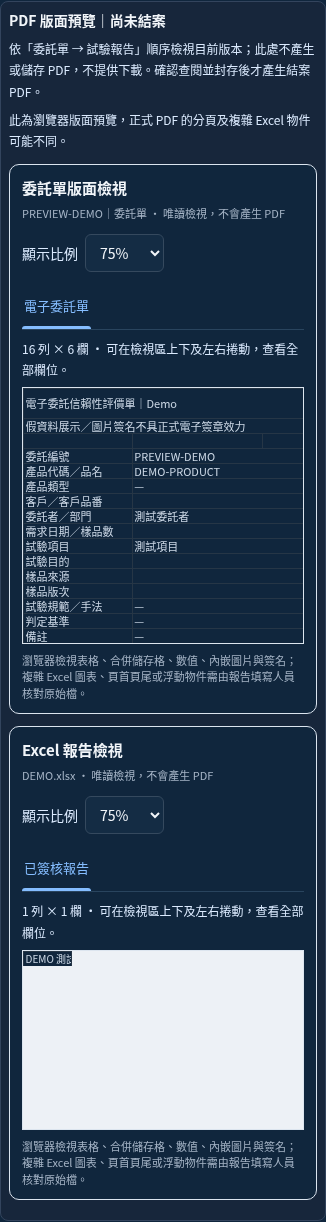
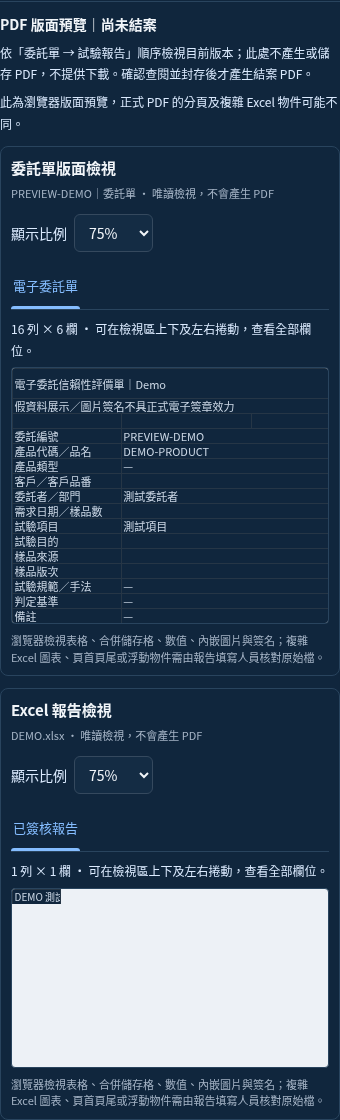
Polish supervisor return actions and document preview borders

diff --git a/src/RequestApp.jsx b/src/RequestApp.jsx
@@ -354,7 +354,7 @@ export default function RequestApp() {
   {page==='borrow'&&signedAccount.role==='委託者'&&<button type="button" className="rq-btn rq-btn-primary" onClick={openBorrow}>＋申請借用</button>}
   {borrowOpen&&<RequestFormDialog label="申請借用" dark={dark} onClose={()=>setBorrowOpen(false)}><header className="rq-form-header"><div><p className="rq-eyebrow">EQUIPMENT & MATERIAL BORROWING REQUEST</p><div className="help-title-row"><h2><LmsSidebarIcon name="borrow"/>申請借用</h2><HelpTip>填寫設備或物料借用需求與預計歸還日期，送出後會建立借用申請紀錄。</HelpTip></div></div><button type="button" className="rq-close" aria-label="關閉借用申請" onClick={()=>setBorrowOpen(false)}>×</button></header><div className="rq-form-body rq-form-body-reference"><section className="rq-entry-card"><div className="rq-entry-card-title"><span className="rq-entry-number">1</span><div><b>申請人資料</b><small>Applicant Information</small></div></div><div className="rq-entry-grid"><label>申請人姓名 <em>*</em><input className="rq-input" value={borrowForm.requester} onChange={e=>setBorrowForm({...borrowForm,requester:e.target.value})} placeholder="請輸入申請人姓名"/></label><label>申請部門 <em>*</em><input className="rq-input" value={borrowForm.department} onChange={e=>setBorrowForm({...borrowForm,department:e.target.value})} placeholder="例如：RD、PM、DQA"/></label></div></section><section className="rq-entry-card"><div className="rq-entry-card-title"><span className="rq-entry-number">2</span><div><b>借用項目與用途</b><small>Borrowed Item & Purpose</small></div></div><div className="rq-entry-grid"><BorrowResourceFields form={borrowForm} onChange={value=>{setBorrowForm(value);setBorrowError('');}} snapshot={borrowSnapshot}/><label className="rq-entry-grid-one">借用用途 <em>*</em><textarea className="rq-input rq-textarea" value={borrowForm.purpose} onChange={e=>setBorrowForm({...borrowForm,purpose:e.target.value})} placeholder="請說明借用原因、用途或對應試驗案件"/></label></div></section><section className="rq-entry-card"><div className="rq-entry-card-title"><span className="rq-entry-number">3</span><div><b>借用期間與備註</b><small>Borrowing Period & Notes</small></div></div><div className="rq-entry-grid"><label>預計借用日期 <em>*</em><input className="rq-input" type="date" value={borrowForm.borrowDate} onChange={e=>setBorrowForm({...borrowForm,borrowDate:e.target.value})}/></label><label>預計歸還日期 <em>*</em><input className="rq-input" type="date" min={borrowForm.borrowDate || undefined} value={borrowForm.returnDate} onChange={e=>setBorrowForm({...borrowForm,returnDate:e.target.value})}/></label><label className="rq-entry-grid-one">備註<textarea className="rq-input rq-textarea" value={borrowForm.notes} onChange={e=>setBorrowForm({...borrowForm,notes:e.target.value})} placeholder="配件、治具、設備狀況或其他注意事項（選填）"/></label></div></section><div className="rq-process-note"><b>申請流程</b><p>填寫借用申請 → LMS 待核准 → 一階主管核准／退回。</p></div>{borrowError&&<p role="alert" className="rq-field-error">{borrowError}</p>}</div><footer className="rq-form-footer"><button type="button" className="rq-btn rq-btn-light" onClick={()=>setBorrowForm({ requester: '', department: '', resourceType:'equipment',materialId:'',material:'',equipment: '', equipmentId:'', purpose: '', borrowDate: '', returnDate: '', quantity: '1', notes: '' })}>清除表單</button><button type="button" className="rq-btn rq-btn-primary" onClick={()=>{ if(!borrowForm.requester.trim()||!borrowForm.department.trim()||!(borrowForm.resourceType==='material'?borrowForm.materialId:borrowForm.equipment)||!borrowForm.purpose.trim()||!borrowForm.borrowDate||!borrowForm.returnDate||Number(borrowForm.quantity)<1){setBorrowError('請完成所有必填欄位，並確認借用與歸還日期。');notify('請完成所有必填欄位，並確認借用與歸還日期。');return;} if(borrowForm.returnDate<borrowForm.borrowDate){setBorrowError('歸還日期不可早於借用日期。');notify('歸還日期不可早於借用日期。');return;} let id;try{const created=submitBorrowRequest(borrowForm,signedAccount?.id);id=created.id;refreshLabSnapshot();}catch(error){setBorrowError(error.message);notify(error.message);return;} setBorrowError('');setBorrowForm({ requester: '', department: '', resourceType:'equipment',materialId:'',material:'',equipment: '', equipmentId:'', purpose: '', borrowDate: '', returnDate: '', quantity: '1', notes: '' }); setBorrowOpen(false);setPage('requests');setMyTab('borrows');setSearch('');notify(`借用申請 ${id} 已建立`); }}>送出借用申請 →</button></footer></RequestFormDialog>}
   {page==='detail'&&!selected&&<div role="alert" className="rq-panel rq-empty">案件不存在或你沒有存取權限。</div>}
-  {page === 'detail' && selected && <section className="rq-panel"><div className="rq-panel-head"><div><div className="help-title-row"><h2>{selected.id}　<span className={`rq-status ${requestStatusClass(selected.status)}`}>{selected.status === '待主管簽核' ? '待簽核' : selected.status === '已核准' ? '待審查' : selected.status}</span></h2><HelpTip>委託內容、試驗需求及簽核紀錄</HelpTip></div></div><button className="rq-btn rq-btn-light" onClick={()=>setPage(canOpenReview?'review':'requests')}>← 返回清單</button></div>{selected.status==='已完成'&&<p className="rq-stage-note">試驗已完成；報告仍待處理，不代表已審核、已查閱或已結案。</p>}<ReportCasePanel request={selected} account={signedAccount}/>{selected.execution&&<section className="rq-detail-section"><h3>試驗執行資訊</h3><div className="rq-detail-grid">{[['設備',selected.execution.equipment],['執行人',selected.execution.operator],['樣品編號',selected.execution.sampleCode],['開始時間',displayTaipei(selected.execution.startedAt)],['完成時間',displayTaipei(selected.execution.completedAt)]].map(([label,value])=><div key={label}><label>{label}</label><p>{value||'—'}</p></div>)}</div></section>}<div className="rq-detail-grid">{[['建立時間',displayTaipei(selected.createdAt)],['最後更新（台灣時間）',displayTaipei(selected.updatedAt)],['產品代碼',selected.productCode||selected.product],['產品類型',selected.productType],['客戶名稱',selected.customer||selected.project],['客戶品番',selected.customerPartNo],['需求日期',displayTaipei(selected.dueDate,{dateOnly:true})],['測試數量',selected.quantity],['委託者',selected.requester],['委託部門',selected.department],['試驗目的',(selected.purpose||[]).join('、')+(selected.purposeOther?`：${selected.purposeOther}`:'')],['樣品來源',(selected.sampleSource||[]).join('、')+(selected.sampleSourceOther?`：${selected.sampleSourceOther}`:'')],['製品版次',selected.productVersion],['PCBA版次',selected.pcbaVersion],['軟體版次',selected.softwareVersion],['製造日期',displayTaipei(selected.manufactureDate,{dateOnly:true})],['試驗項目',(selected.testItems||[]).join('、')],['試驗規範／試驗手法',selected.specification],['判定方式',selected.judgementRequired],['判定說明',selected.judgementCriteria],['其他說明',selected.sampleDescription],['備註',selected.notes]].map(([k,v])=><div key={k}><label>{k}</label><p>{v||'—'}</p></div>)}</div>{canOpenReview && selected.status==='待主管簽核'&&canApproveRequestManager(signedAccount,selected) && <div className="rq-approval"><h3>主管簽核（二階流程：第一階段）</h3><p className="rq-muted">核准時需簽名；退件只需填寫原因，可不簽名。</p><ApprovalSignature accountId={signedAccount?.id} key={`${selected.id}-${approvalInputVersion}`} mode={approvalMode} onModeChange={setApprovalMode} value={approvalSignature} onChange={setApprovalSignature} onError={notify} /><label className="rq-label">簽核意見（退件時請填寫原因）</label><textarea className="rq-input rq-textarea" value={approvalNote} onChange={e=>setApprovalNote(e.target.value)} placeholder="請輸入核准說明或退件補正事項…"/><div className="rq-actions"><button className="rq-btn rq-btn-danger" onClick={()=>review(selected.id,'退件')}>退回補正</button><button className="rq-btn rq-btn-primary" onClick={()=>review(selected.id,'已核准')}>✓ 核准委託單</button></div></div>}{signedAccount.role==='委託者' && ['退件','補件中'].includes(selected.status) && <div className="rq-review-callout"><div><b>主管意見</b><p>{selected.approvalNote || '請補充委託資訊。'}</p></div><button className="rq-btn rq-btn-primary" onClick={()=>beginEdit(selected)}>編輯並重新送出</button></div>}<RequestSignatures request={requests.find(r => r.id === selected.id) || selected} /><LmsReviewSignatures request={requests.find(r => r.id === selected.id) || selected} /><SignatureHistory request={requests.find(r=>r.id===selected.id)||selected}/><RequestProgress status={(requests.find(r => r.id === selected.id) || selected).status} /></section>}
+  {page === 'detail' && selected && <section className="rq-panel rq-case-detail"><div className="rq-panel-head"><div><div className="help-title-row"><h2>{selected.id}　<span className={`rq-status ${requestStatusClass(selected.status)}`}>{selected.status === '待主管簽核' ? '待簽核' : selected.status === '已核准' ? '待審查' : selected.status}</span></h2><HelpTip>委託內容、試驗需求及簽核紀錄</HelpTip></div></div><button className="rq-btn rq-btn-light" onClick={()=>setPage(canOpenReview?'review':'requests')}>← 返回清單</button></div>{selected.status==='已完成'&&<p className="rq-stage-note">試驗已完成；報告仍待處理，不代表已審核、已查閱或已結案。</p>}<ReportCasePanel request={selected} account={signedAccount}/>{selected.execution&&<section className="rq-detail-section"><h3>試驗執行資訊</h3><div className="rq-detail-grid">{[['設備',selected.execution.equipment],['執行人',selected.execution.operator],['樣品編號',selected.execution.sampleCode],['開始時間',displayTaipei(selected.execution.startedAt)],['完成時間',displayTaipei(selected.execution.completedAt)]].map(([label,value])=><div key={label}><label>{label}</label><p>{value||'—'}</p></div>)}</div></section>}<div className="rq-detail-grid">{[['建立時間',displayTaipei(selected.createdAt)],['最後更新（台灣時間）',displayTaipei(selected.updatedAt)],['產品代碼',selected.productCode||selected.product],['產品類型',selected.productType],['客戶名稱',selected.customer||selected.project],['客戶品番',selected.customerPartNo],['需求日期',displayTaipei(selected.dueDate,{dateOnly:true})],['測試數量',selected.quantity],['委託者',selected.requester],['委託部門',selected.department],['試驗目的',(selected.purpose||[]).join('、')+(selected.purposeOther?`：${selected.purposeOther}`:'')],['樣品來源',(selected.sampleSource||[]).join('、')+(selected.sampleSourceOther?`：${selected.sampleSourceOther}`:'')],['製品版次',selected.productVersion],['PCBA版次',selected.pcbaVersion],['軟體版次',selected.softwareVersion],['製造日期',displayTaipei(selected.manufactureDate,{dateOnly:true})],['試驗項目',(selected.testItems||[]).join('、')],['試驗規範／試驗手法',selected.specification],['判定方式',selected.judgementRequired],['判定說明',selected.judgementCriteria],['其他說明',selected.sampleDescription],['備註',selected.notes]].map(([k,v])=><div key={k}><label>{k}</label><p>{v||'—'}</p></div>)}</div>{canOpenReview && selected.status==='待主管簽核'&&canApproveRequestManager(signedAccount,selected) && <div className="rq-approval"><h3>主管簽核（二階流程：第一階段）</h3><p className="rq-muted">核准時需簽名；退件只需填寫原因，可不簽名。</p><ApprovalSignature accountId={signedAccount?.id} key={`${selected.id}-${approvalInputVersion}`} mode={approvalMode} onModeChange={setApprovalMode} value={approvalSignature} onChange={setApprovalSignature} onError={notify} /><label className="rq-label">簽核意見（退件時請填寫原因）</label><textarea className="rq-input rq-textarea" value={approvalNote} onChange={e=>setApprovalNote(e.target.value)} placeholder="請輸入核准說明或退件補正事項…"/><div className="rq-actions"><button className="rq-btn rq-btn-danger" onClick={()=>review(selected.id,'退件')}>退回補正</button><button className="rq-btn rq-btn-primary" onClick={()=>review(selected.id,'已核准')}>✓ 核准委託單</button></div></div>}{signedAccount.role==='委託者' && ['退件','補件中'].includes(selected.status) && <div className="rq-review-callout"><div><b>主管意見</b><p>{selected.approvalNote || '請補充委託資訊。'}</p></div><button className="rq-btn rq-btn-primary" onClick={()=>beginEdit(selected)}>編輯並重新送出</button></div>}<RequestSignatures request={requests.find(r => r.id === selected.id) || selected} /><LmsReviewSignatures request={requests.find(r => r.id === selected.id) || selected} /><SignatureHistory request={requests.find(r=>r.id===selected.id)||selected}/><RequestProgress status={(requests.find(r => r.id === selected.id) || selected).status} /></section>}
   {formOpen && page==='new' && signedAccount.role==='委託者' && <RequestEditorPage auxiliaryActions={<div className="rq-editor-aux-actions"><button type="button" className="rq-btn rq-btn-small" onClick={fillSampleRequest}>Demo填入</button><button type="button" className="rq-close" onClick={()=>go('/request/requests')} aria-label="關閉">×</button></div>} onSaveDraft={()=>submitRequest(true)} onReset={resetEditor} form={form} signature={requestSignature} source={requests.find(row=>row.id===editingDraftId)} dirty={dirty} errors={formErrors} onClose={()=>go('/request/requests')}><header className="rq-form-header"><div><p className="rq-eyebrow">ELECTRONIC TEST REQUEST</p><div className="help-title-row"><h2><LmsSidebarIcon name="new"/>{editingDraftId ? '編輯委託單草稿' : '新增試驗委託單'}</h2><HelpTip>可先儲存部分資訊，之後再從「我的委託/借用」繼續編輯並送出簽核。</HelpTip></div></div></header><div className="rq-form-body rq-form-body-reference"><section className="rq-entry-card"><div className="rq-entry-card-title"><span className="rq-entry-number">1</span><div><b>委託基本資料</b><small>Request Information</small></div></div><div className="rq-entry-grid">
 <label>產品代碼（送簽必填）<input className="rq-input" data-field="productCode" aria-invalid={Boolean(formErrors.productCode)} value={form.productCode} onChange={e=>setForm({...form,productCode:e.target.value,product:form.product||e.target.value})} placeholder="例如：VCU-2026-A01"/></label>
 <label>產品類型<input className="rq-input" value={form.productType} onChange={e=>setForm({...form,productType:e.target.value})} placeholder="例如：車用電子控制器"/></label>

diff --git a/src/ReportUi.jsx b/src/ReportUi.jsx
@@ -20,7 +20,7 @@ export function ReportCasePanel({request,account}){
  async function downloadPdf(){setError('');try{if(!readable)throw Error('此帳號目前無權下載報告。');const file=await readArchivedPdf({actorId:actor.id,requestId:request.id,system:accessSystem(actor,'request')?'request':accessSystem(actor,'lms')?'lms':'lab'});download(file.bytes,file.name,'application/pdf');}catch(err){setError(err.message);}}
  async function confirm(){setBusy(true);setError('');try{await confirmReportViewed({requestId:request.id,actorId:actor.id,expectedRevision:report.revision});await refreshReportSnapshot();refreshLabSnapshot();window.dispatchEvent(new Event('dqa:review-updated'));}catch(err){setError(err.message);}finally{setBusy(false);}}
  async function sendReturn(){setBusy(true);setError('');try{await returnViewedReport({requestId:request.id,actorId:actor.id,comment:returnReason,expectedRevision:report.revision});await refreshReportSnapshot();refreshLabSnapshot();window.dispatchEvent(new Event('dqa:review-updated'));setReturning(false);setReturnReason('');}catch(err){setError(err.message);}finally{setBusy(false);}}
- return <section className="report-case-panel"><div className="help-title-row"><h3>試驗報告</h3><HelpTip>Demo 圖片簽名，不具正式電子簽章效力；結案 PDF 順序：委託單 → 試驗報告。</HelpTip></div>{report.returnReason&&<p>退回原因：{report.returnReason}</p>}<p>{report.documentKind||'試驗報告'} · 第 {report.revisionNumber||1} 版 · {report.fileName} · {report.status}{report.stage==='level2'?'（二階主管）':report.stage==='level3'?'（三階主管）':''}</p>{readable?<div className="report-actions">{report.stage==='archived'&&<button type="button" onClick={downloadPdf}>下載結案 PDF（委託單＋報告）</button>}{canConfirmReport(actor,report,request)&&<button type="button" className="report-primary" disabled={busy} onClick={confirm}>{busy?'正在轉換 PDF 並封存…':'確認查閱並封存'}</button>}{canConfirmReport(actor,report,request)&&<button type="button" disabled={busy} aria-expanded={previewing} onClick={()=>setPreviewing(value=>!value)}>{previewing?'收合 PDF 預覽':'預覽 PDF'}</button>}{canConfirmReport(actor,report,request)&&<button type="button" disabled={busy} onClick={()=>setReturning(v=>!v)}>退回報告補正</button>}</div>:<p>報告審核完成後，委託者與指定主管即可查閱。</p>}{previewing&&canConfirmReport(actor,report,request)&&<section className="report-prearchive-preview" aria-label="PDF 版面預覽" key={report.revision}><h4>PDF 版面預覽｜尚未結案</h4><p>依「委託單 → 試驗報告」順序檢視目前版本；此處不產生或儲存 PDF，不提供下載。確認查閱並封存後才產生結案 PDF。</p><p>此為瀏覽器版面預覽，正式 PDF 的分頁及複雜 Excel 物件可能不同。</p><ReportWorkbookView requestId={request.id} actorId={actor.id} revision={report.revision} documentKind="request"/><ReportWorkbookView requestId={request.id} actorId={actor.id} revision={report.revision}/></section>}{returning&&canConfirmReport(actor,report,request)&&<div><label>查閱退回原因（必填）<textarea value={returnReason} disabled={busy} onChange={event=>setReturnReason(event.target.value)}/></label><button type="button" disabled={busy} onClick={sendReturn}>確認退回報告</button></div>}{report.stage==='archived'&&<p>已封存至本機 DQA 資料庫 · {displayTaipei(report.archivedAt)}</p>}{error&&<p role="alert" className="report-error">{error}</p>}<details><summary>報告流程歷程</summary><PaginatedList items={report.history}>{rows=><ol>{rows.map(row=><li key={row.id}>{row.action} · {row.actor} · {displayTaipei(row.at)}</li>)}</ol>}</PaginatedList></details></section>;
+ return <section className="report-case-panel"><div className="help-title-row"><h3>試驗報告</h3><HelpTip>Demo 圖片簽名，不具正式電子簽章效力；結案 PDF 順序：委託單 → 試驗報告。</HelpTip></div>{report.returnReason&&<p>退回原因：{report.returnReason}</p>}<p>{report.documentKind||'試驗報告'} · 第 {report.revisionNumber||1} 版 · {report.fileName} · {report.status}{report.stage==='level2'?'（二階主管）':report.stage==='level3'?'（三階主管）':''}</p>{readable?<div className="report-actions">{report.stage==='archived'&&<button type="button" onClick={downloadPdf}>下載結案 PDF（委託單＋報告）</button>}{canConfirmReport(actor,report,request)&&<button type="button" className="report-primary" disabled={busy} onClick={confirm}>{busy?'正在轉換 PDF 並封存…':'確認查閱並封存'}</button>}{canConfirmReport(actor,report,request)&&<button type="button" disabled={busy} aria-expanded={previewing} onClick={()=>setPreviewing(value=>!value)}>{previewing?'收合 PDF 預覽':'預覽 PDF'}</button>}{canConfirmReport(actor,report,request)&&<button type="button" className="report-danger" disabled={busy} onClick={()=>setReturning(v=>!v)}>退回報告補正</button>}</div>:<p>報告審核完成後，委託者與指定主管即可查閱。</p>}{previewing&&canConfirmReport(actor,report,request)&&<section className="report-prearchive-preview" aria-label="PDF 版面預覽" key={report.revision}><h4>PDF 版面預覽｜尚未結案</h4><p>依「委託單 → 試驗報告」順序檢視目前版本；此處不產生或儲存 PDF，不提供下載。確認查閱並封存後才產生結案 PDF。</p><p>此為瀏覽器版面預覽，正式 PDF 的分頁及複雜 Excel 物件可能不同。</p><ReportWorkbookView requestId={request.id} actorId={actor.id} revision={report.revision} documentKind="request"/><ReportWorkbookView requestId={request.id} actorId={actor.id} revision={report.revision}/></section>}{returning&&canConfirmReport(actor,report,request)&&<div className="report-return-form"><label>查閱退回原因（必填）<textarea value={returnReason} disabled={busy} onChange={event=>setReturnReason(event.target.value)}/></label><button type="button" className="report-danger" disabled={busy} onClick={sendReturn}>確認退回報告</button></div>}{report.stage==='archived'&&<p>已封存至本機 DQA 資料庫 · {displayTaipei(report.archivedAt)}</p>}{error&&<p role="alert" className="report-error">{error}</p>}<details><summary>報告流程歷程</summary><PaginatedList items={report.history}>{rows=><ol>{rows.map(row=><li key={row.id}>{row.action} · {row.actor} · {displayTaipei(row.at)}</li>)}</ol>}</PaginatedList></details></section>;
 }
 export function ReportReviewDialog({requestId,currentUser,onClose}){
  const ref=useRef(null),reports=useReportSnapshot(),snapshot=useLabSnapshot(),report=reports.find(row=>row.requestId===requestId),source=snapshot.electronic.find(row=>row.id===requestId),actor=snapshot.accounts.find(row=>row.id===currentUser?.id);

diff --git a/e2e/report-prearchive-preview.spec.js b/e2e/report-prearchive-preview.spec.js
@@ -7,9 +7,12 @@ for(const theme of ['light','dark'])test(`supervisor PDF layout preview ${theme}
  await page.evaluate(async()=>{const {excelModule}=await import('/src/reportWorkbook.mjs'),{saveReport}=await import('/src/reportStore.mjs');const Excel=await excelModule(),book=new Excel.Workbook(),sheet=book.addWorksheet('已簽核報告');sheet.getCell('A1').value='DEMO 測試結果 PASS';await saveReport({requestId:'PREVIEW-DEMO',revision:'preview-r1',stage:'view',status:'待查閱',fileName:'DEMO.xlsx',signedExcel:await book.xlsx.writeBuffer(),history:[],approvals:[]});});
  await page.reload();await page.getByRole('tab',{name:/查閱/}).click();await page.getByRole('button',{name:'PREVIEW-DEMO',exact:true}).click();
  const state=()=>page.evaluate(async()=>{const {getReport}=await import('/src/reportStore.mjs');const report=await getReport('PREVIEW-DEMO');return {cases:localStorage.getItem('dqa-request-demo-v2'),stage:report.stage,revision:report.revision,pdf:report.pdf,pdfName:report.pdfName,confirmedAt:report.confirmedAt,archivedAt:report.archivedAt,bytes:Array.from(new Uint8Array(report.signedExcel))};});
+ const returnButton=page.getByRole('button',{name:'退回報告補正',exact:true});await expect(returnButton).toHaveCSS('background-color','rgb(220, 38, 38)');await expect(returnButton).toHaveCSS('color','rgb(255, 255, 255)');
+ await returnButton.click();await expect(page.getByRole('button',{name:'確認退回報告',exact:true})).toHaveCSS('background-color','rgb(220, 38, 38)');await returnButton.click();
+ await expect(page.locator('.rq-case-detail>.report-case-panel')).toHaveCSS('border-left-width','0px');
  const before=await state(),downloads=[];page.on('download',download=>downloads.push(download));
  await expect(page.getByRole('button',{name:'確認查閱並封存',exact:true})).toBeVisible();await page.getByRole('button',{name:'預覽 PDF',exact:true}).click();
- const preview=page.getByRole('region',{name:'PDF 版面預覽',exact:true});await expect(preview).toBeVisible();await expect(preview).toContainText('此處不產生或儲存 PDF，不提供下載');await expect(preview.getByRole('cell',{name:'DEMO-PRODUCT',exact:true})).toBeVisible();await expect(preview.getByRole('cell',{name:'DEMO 測試結果 PASS',exact:true})).toBeVisible();
+ const preview=page.getByRole('region',{name:'PDF 版面預覽',exact:true});await expect(preview).toBeVisible();await expect(preview).toHaveCSS('border-left-width','0px');await expect(preview).toHaveCSS('border-top-width','1px');await expect(preview.locator('.workbook-view').first()).toHaveCSS('border-radius','8px');await expect(preview).toContainText('此處不產生或儲存 PDF，不提供下載');await expect(preview.getByRole('cell',{name:'DEMO-PRODUCT',exact:true})).toBeVisible();await expect(preview.getByRole('cell',{name:'DEMO 測試結果 PASS',exact:true})).toBeVisible();
  await expect(preview.getByRole('button',{name:/下載/})).toHaveCount(0);await expect(page.getByRole('button',{name:'下載結案 PDF（委託單＋報告）',exact:true})).toHaveCount(0);
  expect(await state()).toEqual(before);expect(downloads).toHaveLength(0);
  await preview.screenshot({path:test.info().outputPath(`prearchive-${theme}.png`)});

diff --git a/src/ReportUi.css b/src/ReportUi.css
@@ -7,3 +7,16 @@
 .report-submit-modal .report-quickfill-panel{padding:10px 12px;margin:10px 0 14px}.report-quickfill-panel .report-actions{gap:7px}.report-quickfill-panel .report-actions button{font-size:11px;padding:7px 10px}.report-submit-modal .report-quickfill-panel>p{font-size:11px;line-height:1.5;margin:6px 0}.report-quickfill-panel .report-review-status{flex-direction:row;justify-content:space-between;align-items:center;flex-wrap:wrap;font-size:11px;gap:4px 10px;padding:7px 9px}.report-quickfill-help{font-size:10px;margin-top:6px;line-height:1.5}.report-quickfill-help summary{cursor:pointer;color:#657b98}.report-quickfill-help small{margin:5px 0 0;font-size:10px}
 
 .report-prearchive-preview{margin-top:14px;padding:12px;border:1px solid var(--enterprise-border,#dce5f1);border-radius:8px;background:var(--enterprise-input,#f4f8ff);min-width:0}.report-prearchive-preview>h4{margin:0 0 8px;font-size:14px}.report-prearchive-preview>p{margin:6px 0}.report-prearchive-preview .workbook-view{margin-top:12px}.rq-theme-dark .report-prearchive-preview{background:#17263b;border-color:#33445d}@media(max-width:620px){.report-prearchive-preview{padding:8px}}
+
+/* One case frame, one frame per document; avoid nested rounded outlines. */
+#root .report-case-panel .report-danger{background:#dc2626!important;border:1px solid #dc2626!important;color:#fff!important;border-radius:6px;padding:7px 12px;font:inherit;cursor:pointer;min-height:34px}
+#root .report-case-panel .report-danger:hover:not(:disabled){background:#b91c1c!important;border-color:#b91c1c!important}
+#root .report-case-panel .report-danger:disabled{opacity:.5;cursor:wait}
+#root .rq-case-detail>.report-case-panel{border:0;border-radius:0;box-shadow:none;margin:0;padding:16px 22px;border-bottom:1px solid var(--enterprise-border,#dce5f1)}
+#root .report-case-panel>.report-prearchive-preview{border:0;border-top:1px solid var(--enterprise-border,#dce5f1);border-radius:0;background:transparent;padding:12px 0 0;margin-top:14px}
+#root .report-prearchive-preview>.workbook-view{border:1px solid var(--enterprise-border,#dce5f1);border-radius:8px;padding:12px;margin:12px 0 0;box-shadow:none;overflow:hidden}
+#root .report-prearchive-preview .workbook-scroll{border:1px solid var(--enterprise-border,#dce5f1);border-radius:4px}
+.report-return-form{margin-top:12px;padding-top:12px;border-top:1px solid var(--enterprise-border,#dce5f1)}
+.report-return-form>label{display:flex;flex-direction:column;gap:6px;font-size:12px}
+.report-return-form textarea{box-sizing:border-box;width:100%;min-height:80px;margin:0 0 10px}
+@media(max-width:620px){#root .rq-case-detail>.report-case-panel{padding:12px}#root .report-prearchive-preview>.workbook-view{padding:10px}}

diff --git a/src/DarkTheme.css b/src/DarkTheme.css
@@ -32,7 +32,7 @@
 /* Inputs and secondary controls should never turn into bright white blocks. */
 #root :is(.theme-dark,.rq-theme-dark,.lab-theme-dark,.lab-login-dark) :is(input:not([type=checkbox]):not([type=radio]),select,textarea){background:var(--night-input)!important;color:var(--text)!important;border-color:#35495e!important}
 #root :is(.theme-dark,.rq-theme-dark,.lab-theme-dark) :is(input,textarea)::placeholder{color:#8d9fb4;opacity:1}
-#root :is(.theme-dark,.rq-theme-dark,.lab-theme-dark) :is(.rq-btn-light,.rq-btn:not(.rq-btn-primary):not(.rq-btn-danger),.template-btn.secondary,.btn-outline,.outline-btn,.lab-modal-actions>button:not(.lab-primary),.report-actions>button:not(.report-primary),.data-pagination button,.theme-toggle,.rq-close,.rq-form-close,.request-modal-close){background:var(--night-raised)!important;color:#d6e2ef!important;border-color:#35495e!important}
+#root :is(.theme-dark,.rq-theme-dark,.lab-theme-dark) :is(.rq-btn-light,.rq-btn:not(.rq-btn-primary):not(.rq-btn-danger),.template-btn.secondary,.btn-outline,.outline-btn,.lab-modal-actions>button:not(.lab-primary),.report-actions>button:not(.report-primary):not(.report-danger),.data-pagination button,.theme-toggle,.rq-close,.rq-form-close,.request-modal-close){background:var(--night-raised)!important;color:#d6e2ef!important;border-color:#35495e!important}
 #root :is(.theme-dark,.rq-theme-dark,.lab-theme-dark) :is(.template-btn:not(.secondary):not(.danger),.rq-btn-primary,.lab-primary,.report-primary,.lab-actions button:not(.lab-danger)){background:var(--night-fill)!important;border-color:var(--night-fill)!important;color:#fff!important}
 #root :is(.theme-dark,.rq-theme-dark,.lab-theme-dark) :is(.lab-actions .lab-danger,.rq-btn-danger,.template-btn.danger,.clear-cases-button,.profile-logout-button){background:#35252f!important;color:#ffb0b9!important;border-color:#6c3f50!important;box-shadow:none}
 #root :is(.theme-dark,.rq-theme-dark,.lab-theme-dark) :is(.clear-cases-button,.lab-danger,.rq-btn-danger):hover{background:#49303b!important}

diff --git a/docs/report-prearchive-preview/README.md b/docs/report-prearchive-preview/README.md
@@ -13,3 +13,10 @@
 驗證：Lint、建置通過；報告唯讀與工作流程單元測試通過；新增 2 項瀏覽器測試通過。保留既有大型 chunk 警告。未推送、合併、部署。
 
 [桌面淺色](light.png) · [手機深色](mobile-dark.png)
+
+## 主管查閱樣式補正
+
+- 「退回報告補正」「確認退回報告」採紅底白字，懸停加深；深色主題排除一般次要按鈕覆蓋規則，確認封存仍為藍色。
+- 委託單資訊主框內的試驗報告移除重複圓角外框，統一左右內距。PDF 預覽外框改為上分隔線，各文件只保留單一圓角檢視框，內部表格捲動框線一致。
+- 退回原因區以緊湊分隔線整理；不更動退回、封存、權限及預覽資料流程。
+- Lint、Production Build、4 項相關深淺色瀏覽器測試通過，涵蓋紅色按鈕、框線、資訊視窗與不生成／下載 PDF 的資料不變驗證。
